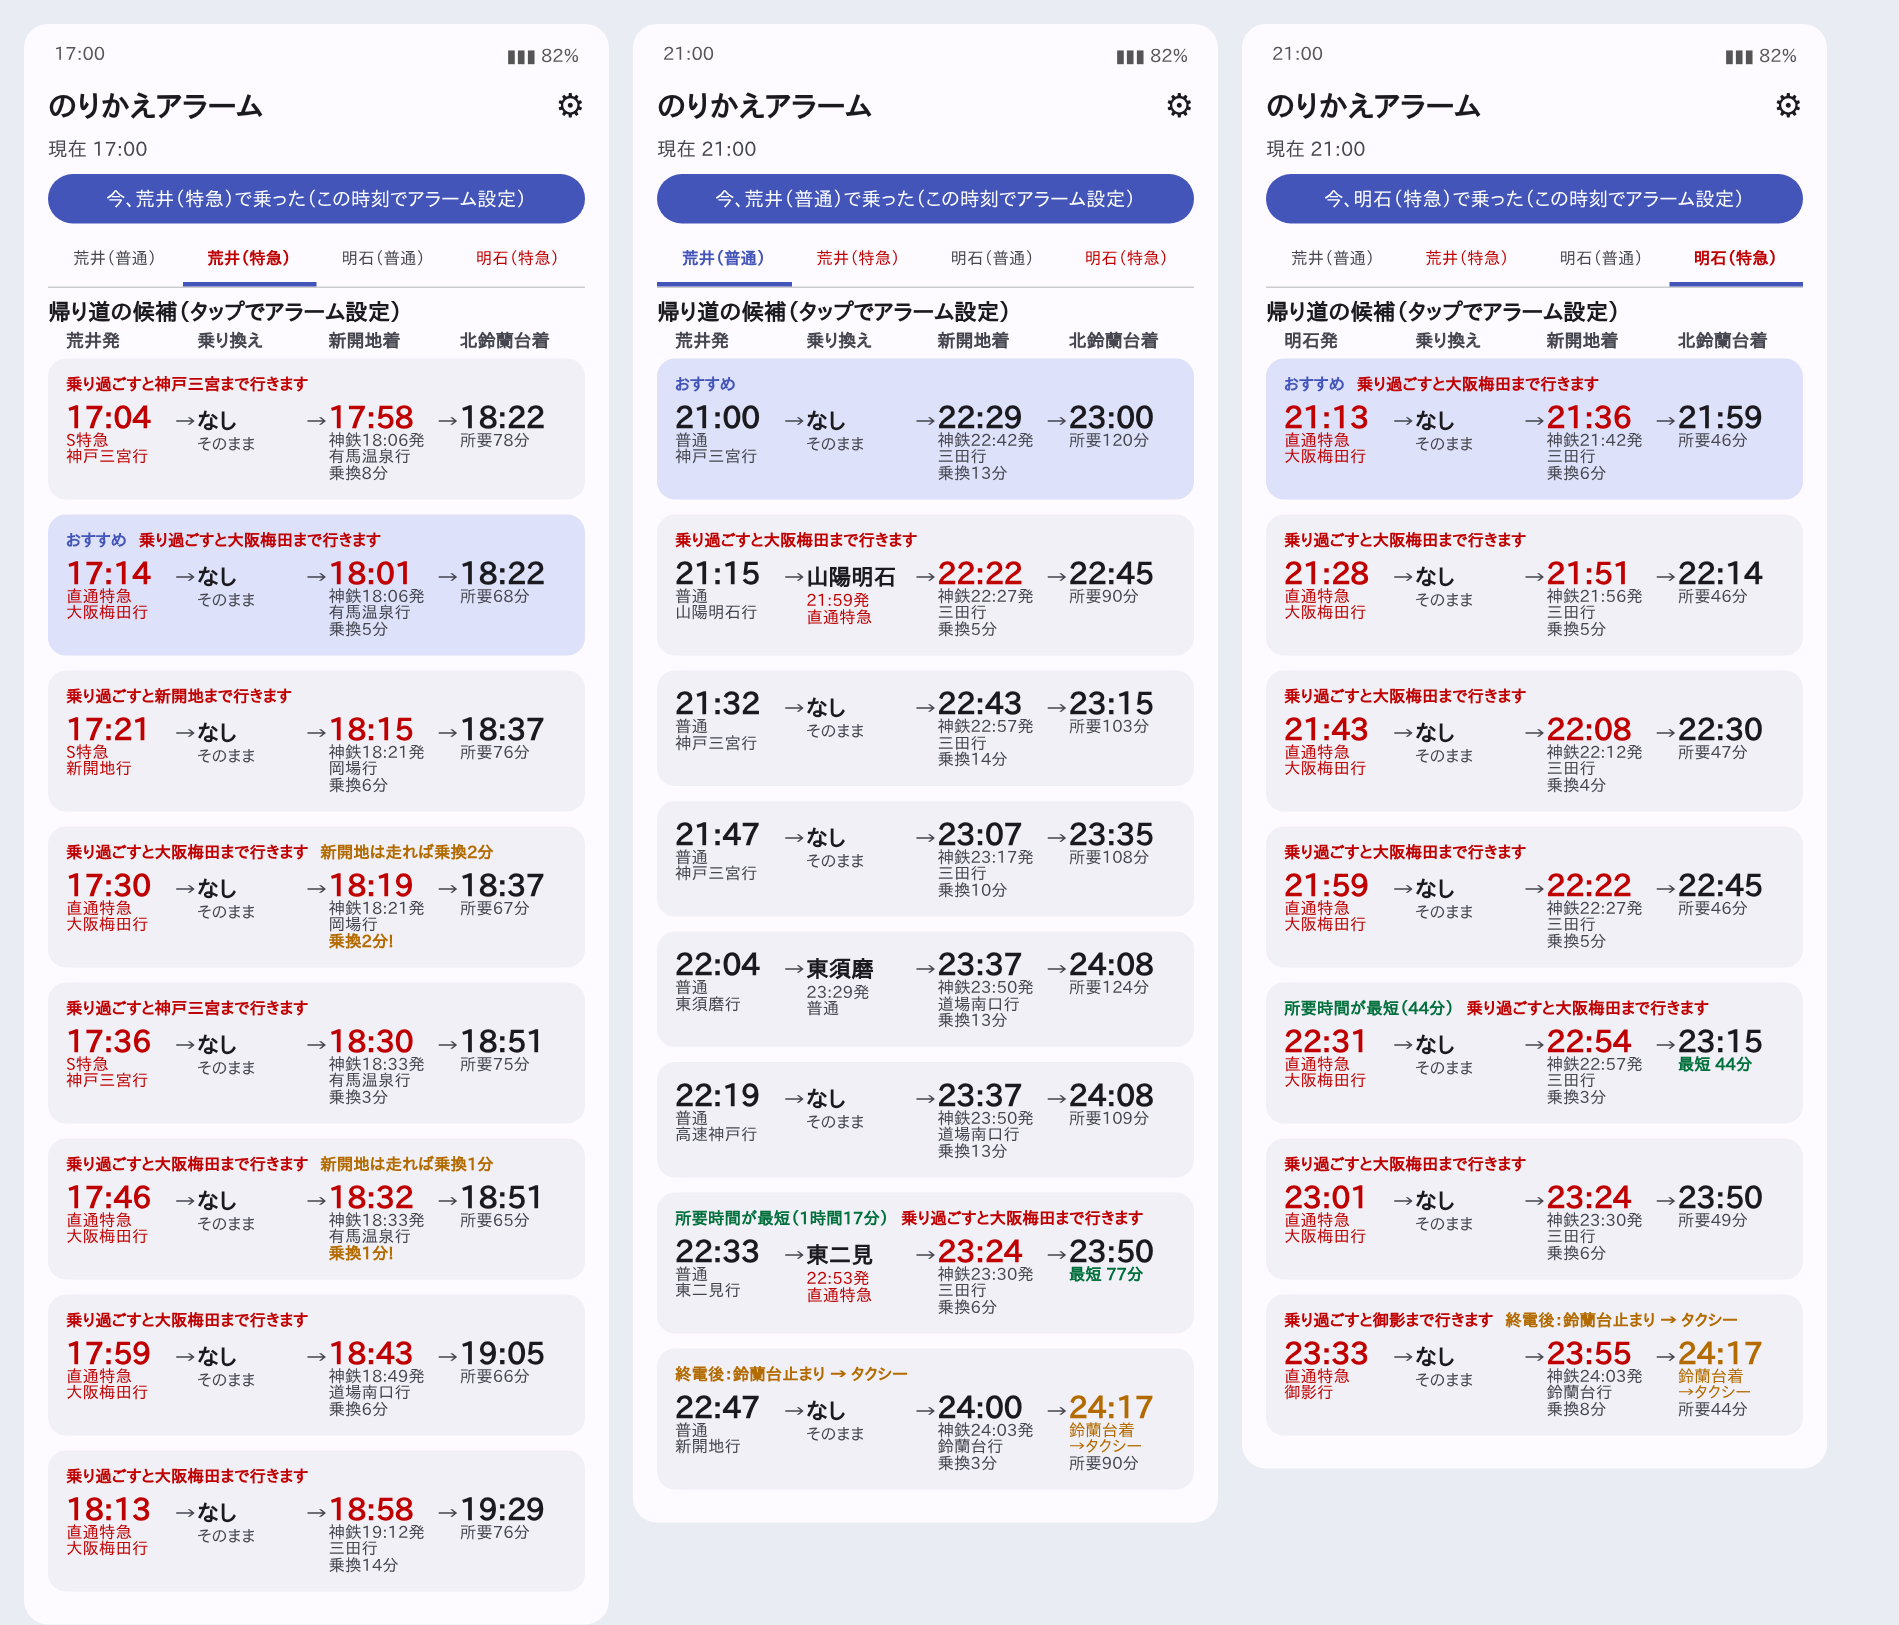
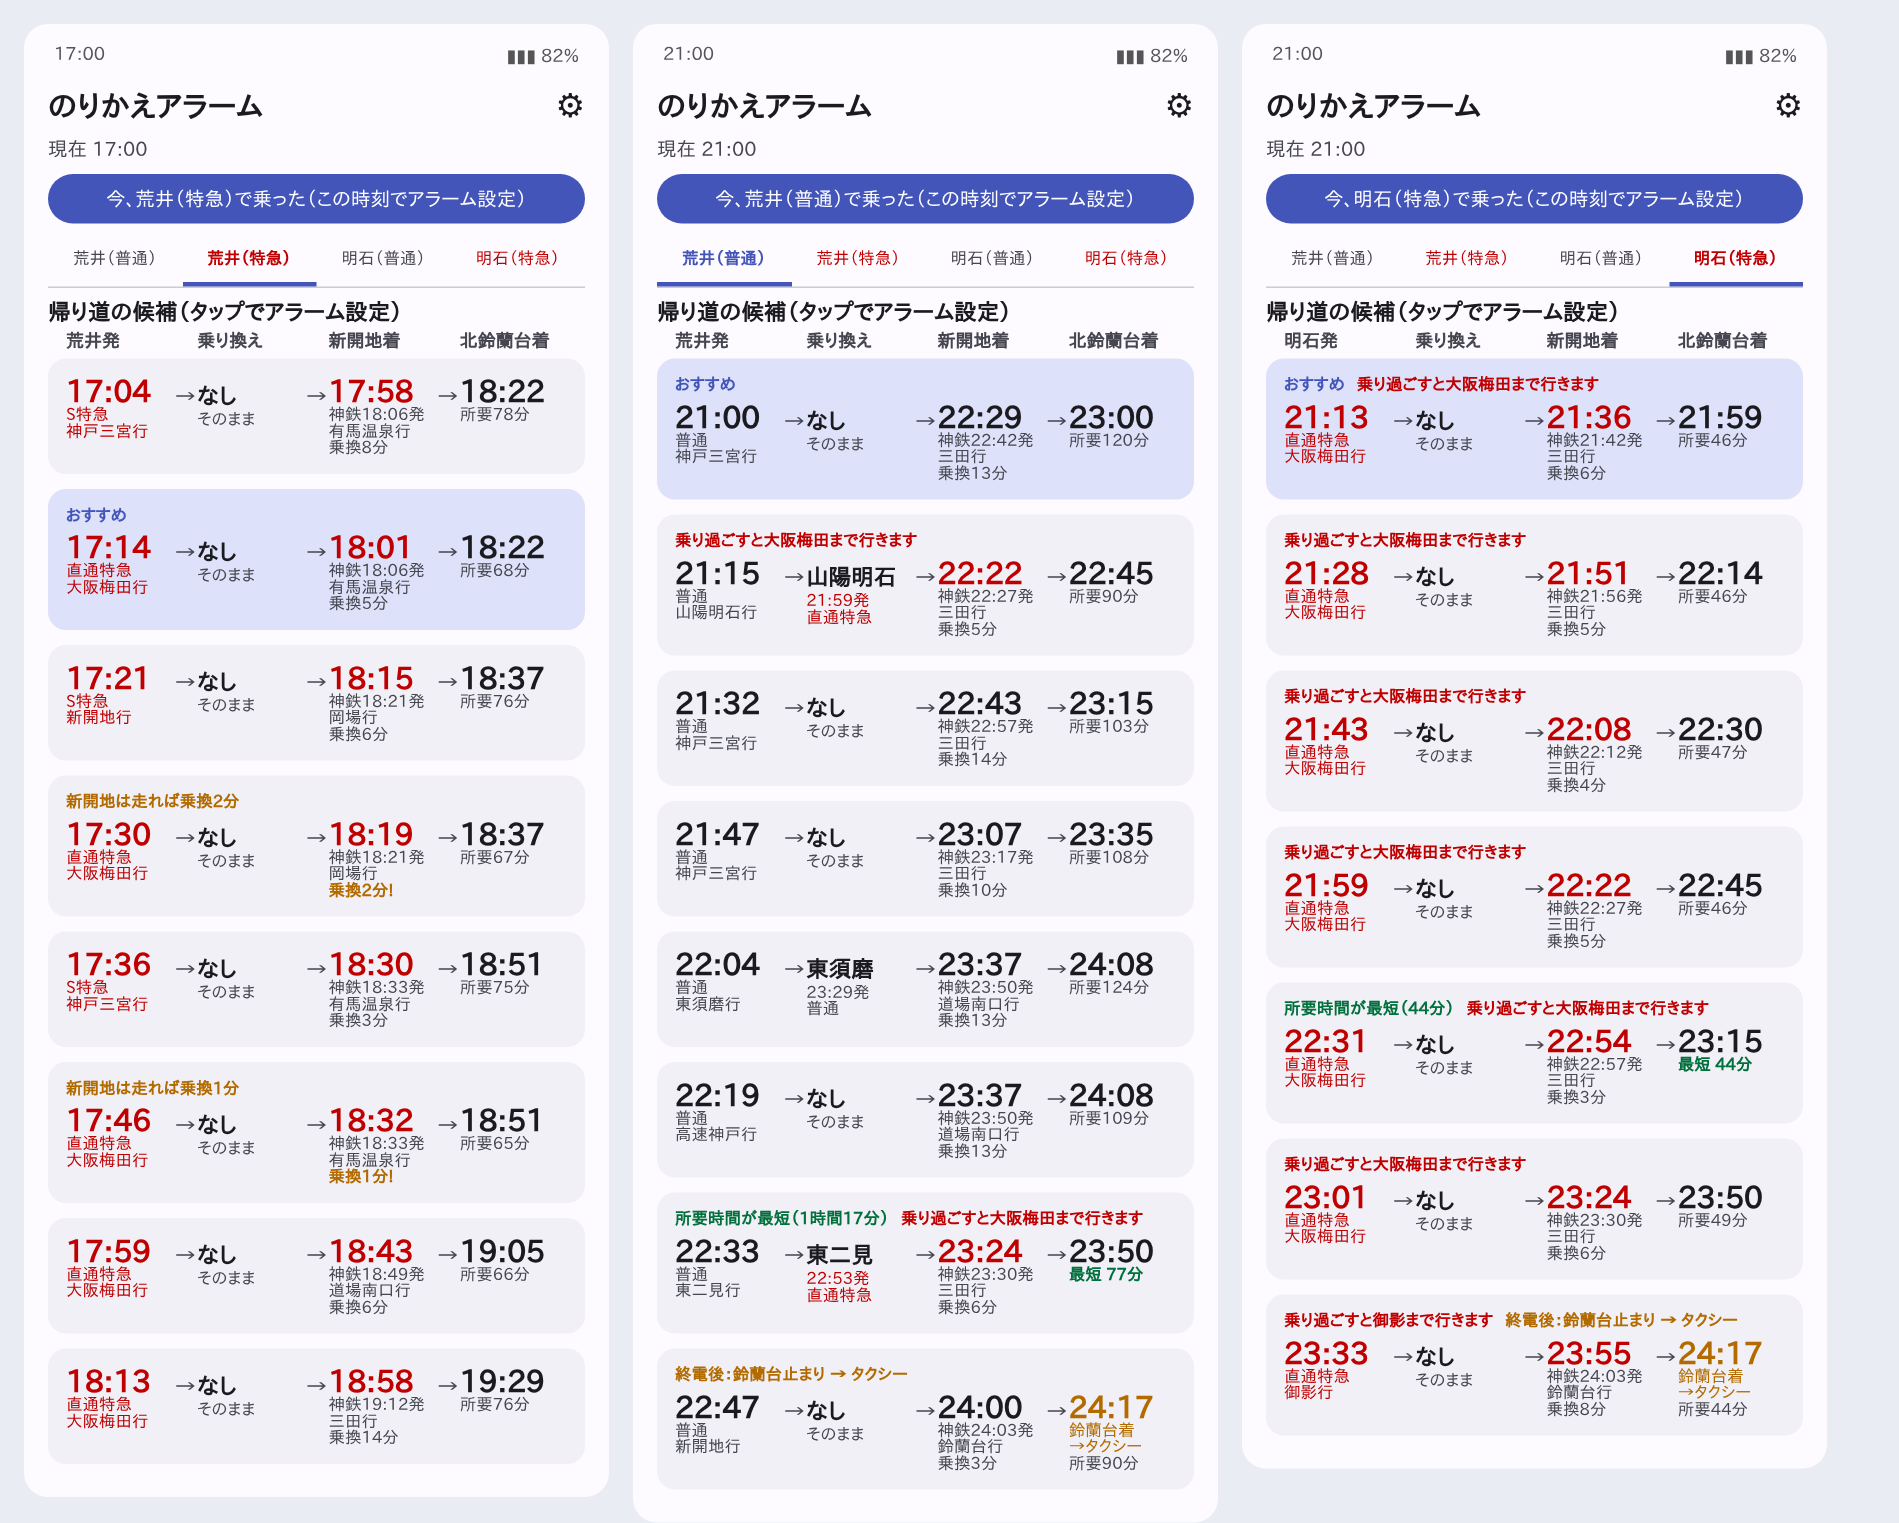
21時より前に出る電車は乗り過ごし警告（梅田まで行きます）を出さない
- 一覧の赤いバッジ、アラーム文の注意書き、新開地の予告を8分前に早める処理を、21時以降に出る電車だけにする
- アラーム自体（予告・本アラーム・降りたかの確認）は今までどおり
- テストを追加（夕方の直通特急は警告なし・予告5分前、21時以降は警告あり・予告8分前）

Claude-Session: https://claude.ai/code/session_019Hjwz1reTSvnaihExDBs3b

diff --git a/core/src/test/kotlin/norikae/core/RealDataTest.kt b/core/src/test/kotlin/norikae/core/RealDataTest.kt
@@ -189,7 +189,8 @@ class AraiEveningTest {
         assertEquals("20:24", last.sanyo!!.dep.toString())
         assertEquals("21:11", last.shintetsu.dep.toString())
         assertEquals("21:29", last.kitaArr.toString())
-        assertTrue(last.umedaRisk)
+        // 21時より前に出る電車は乗り過ごし警告を出さない
+        assertFalse(last.umedaRisk)
     }
 
     @Test
@@ -258,5 +259,29 @@ class RecommendTieBreakTest {
         val r = planner.recommend(routes)!!
         assertEquals("17:14", r.sanyo!!.dep.toString())
         assertEquals("18:22", r.kitaArr.toString())
+    }
+}
+
+class NoOvershootWarningBefore21Test {
+    private val planner = RoutePlanner(loadRealTimetable())
+
+    @Test
+    fun eveningLimitedHasNoWarningAndNormalPreAlarm() {
+        // 17:14 直通特急（大阪梅田行き）：21時より前なので警告なし、新開地の予告は通常の5分前
+        val r = planner.plan(t("17:00"), Origin.ARAI) { it.type.isLimited }.first { it.sanyo!!.dep == t("17:14") }
+        assertTrue(r.sanyo!!.goesToUmeda)
+        assertFalse(r.umedaRisk)
+        val pre = AlarmPlanner.plan(r).first { it.kind == AlarmKind.SHINKAICHI_PRE }
+        assertEquals(r.shinkaichiArr!! - 5, pre.at)
+        assertFalse(pre.message.contains("梅田"))
+    }
+
+    @Test
+    fun after21StillWarns() {
+        // 明石 21:13 直通特急は21時以降なので警告あり、予告は8分前
+        val r = planner.plan(t("21:00"), Origin.AKASHI) { it.type.isLimited }.first()
+        assertTrue(r.umedaRisk)
+        val pre = AlarmPlanner.plan(r).first { it.kind == AlarmKind.SHINKAICHI_PRE }
+        assertEquals(r.shinkaichiArr!! - 8, pre.at)
     }
 }

diff --git a/core/src/main/kotlin/norikae/core/RoutePlanner.kt b/core/src/main/kotlin/norikae/core/RoutePlanner.kt
@@ -20,8 +20,12 @@ data class Route(
     /** 電車を降りる駅 */
     val alightStation: String get() = if (taxiFromSuzurandai) "鈴蘭台" else "北鈴蘭台"
 
-    /** 乗り過ごすと梅田まで行ってしまう経路か（新開地アラームを強める） */
-    val umedaRisk: Boolean get() = sanyo?.goesToUmeda ?: false
+    /**
+     * 乗り過ごすと梅田まで行ってしまう経路か（新開地アラームを強め、一覧に警告を出す）。
+     * 21時より前に出る電車は飲み会の帰りではないので警告しない。
+     */
+    val umedaRisk: Boolean
+        get() = sanyo?.let { it.goesToUmeda && it.dep >= ServiceTime(UMEDA_WARNING_FROM_HOUR * 60) } ?: false
 
     /** 普通だけで帰れる経路か（山陽が未入力のときは普通扱い） */
     val sanyoIsLocal: Boolean get() = sanyo?.isLocalOnly ?: true
@@ -37,6 +41,9 @@ data class Route(
     companion object {
         /** この分数以下の乗り換えは「走れば乗れる」として目立たせる */
         const val TIGHT_TRANSFER_MINUTES = 2
+
+        /** 乗り過ごし警告（梅田まで行く）を出すのは、この時刻以降に出る電車だけ */
+        const val UMEDA_WARNING_FROM_HOUR = 21
     }
 }
 

diff --git a/README.md b/README.md
@@ -10,6 +10,7 @@
 - 普通電車を優先して経路を選ぶ（直通特急は乗り過ごすと梅田まで行くため）
 - 時刻表から帰り道の候補を出し、選んでアラームを設定できる。乗る駅は「荒井（普通）」「荒井（特急）」「明石（普通）」「明石（特急）」のタブで切り替え。荒井は16時台から（夕方に止まる直通特急・S特急 16:57〜20:24 を含む）、明石は21時から
 - 各候補に合計の所要時間（乗る駅を出てから北鈴蘭台に着くまで）と新開地の乗り換え時間を表示。所要時間が一番短い候補は緑で「最短」
+- 「乗り過ごすと梅田まで行きます」の警告（と新開地の予告を8分前に早める処理）は、21時以降に出る電車だけ
 - 新開地の乗り換えは最短1分（走る前提）で計算。2分以内の乗り換えはオレンジで目立たせ、新開地の本アラームでも「乗り換え◯分、走って！」と知らせる
 - 北鈴蘭台行きの終電後も、新開地 24:03 の鈴蘭台止まりに間に合う電車は「鈴蘭台からタクシー」の候補として出す（終点の鈴蘭台で起こす）
 - 土日は動かない。祝日は右上の設定（⚙）の「今日は休み」で止める
